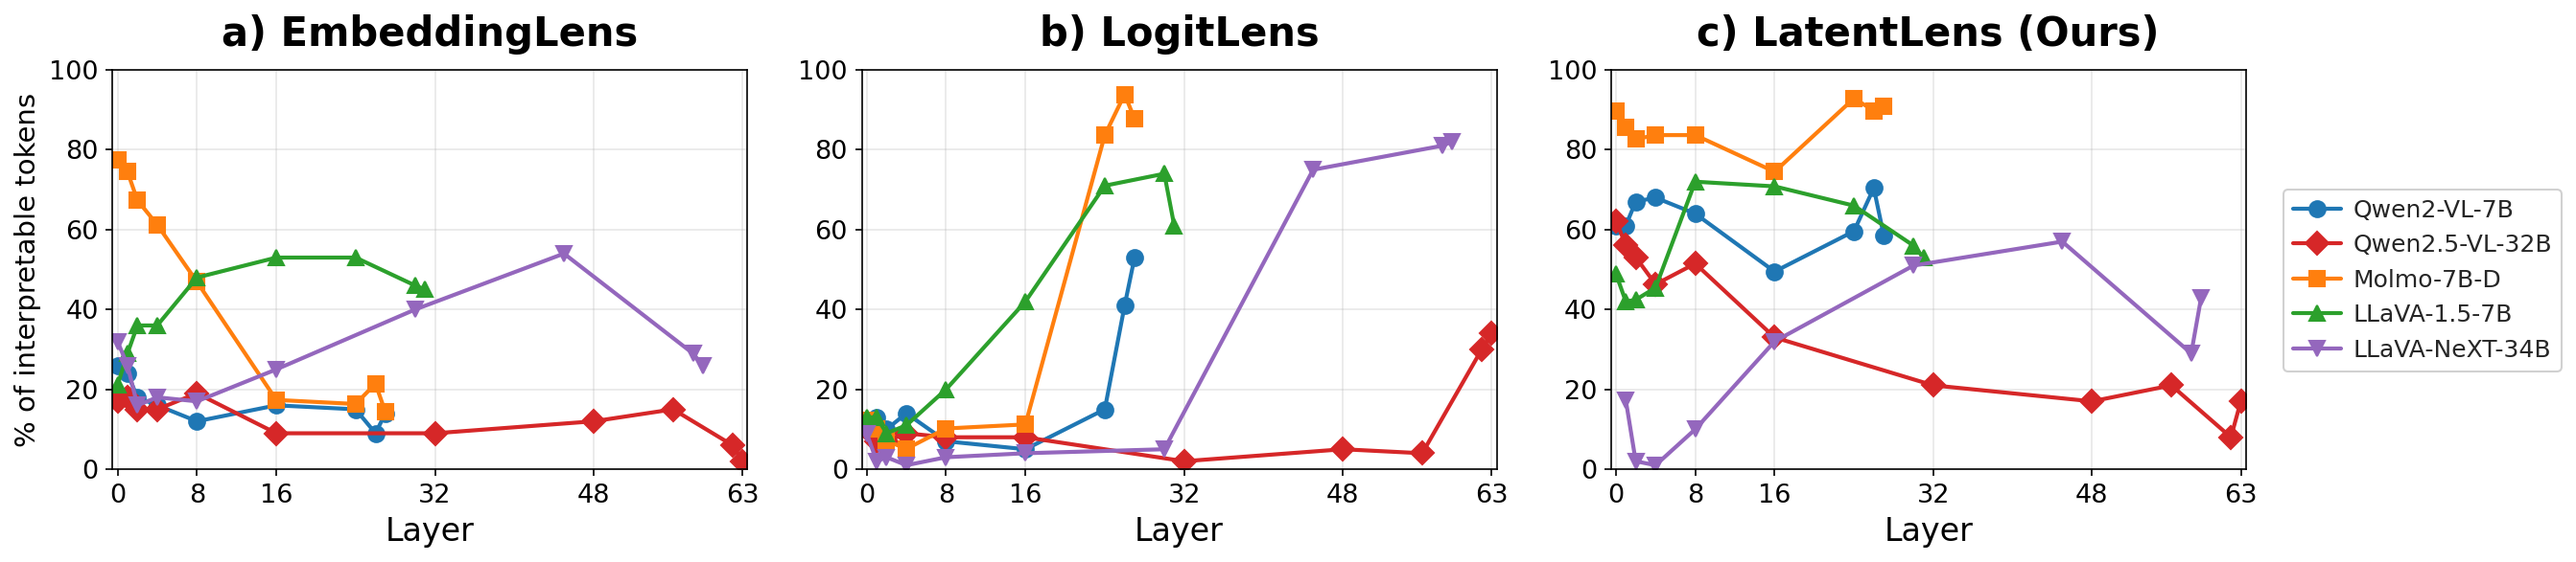
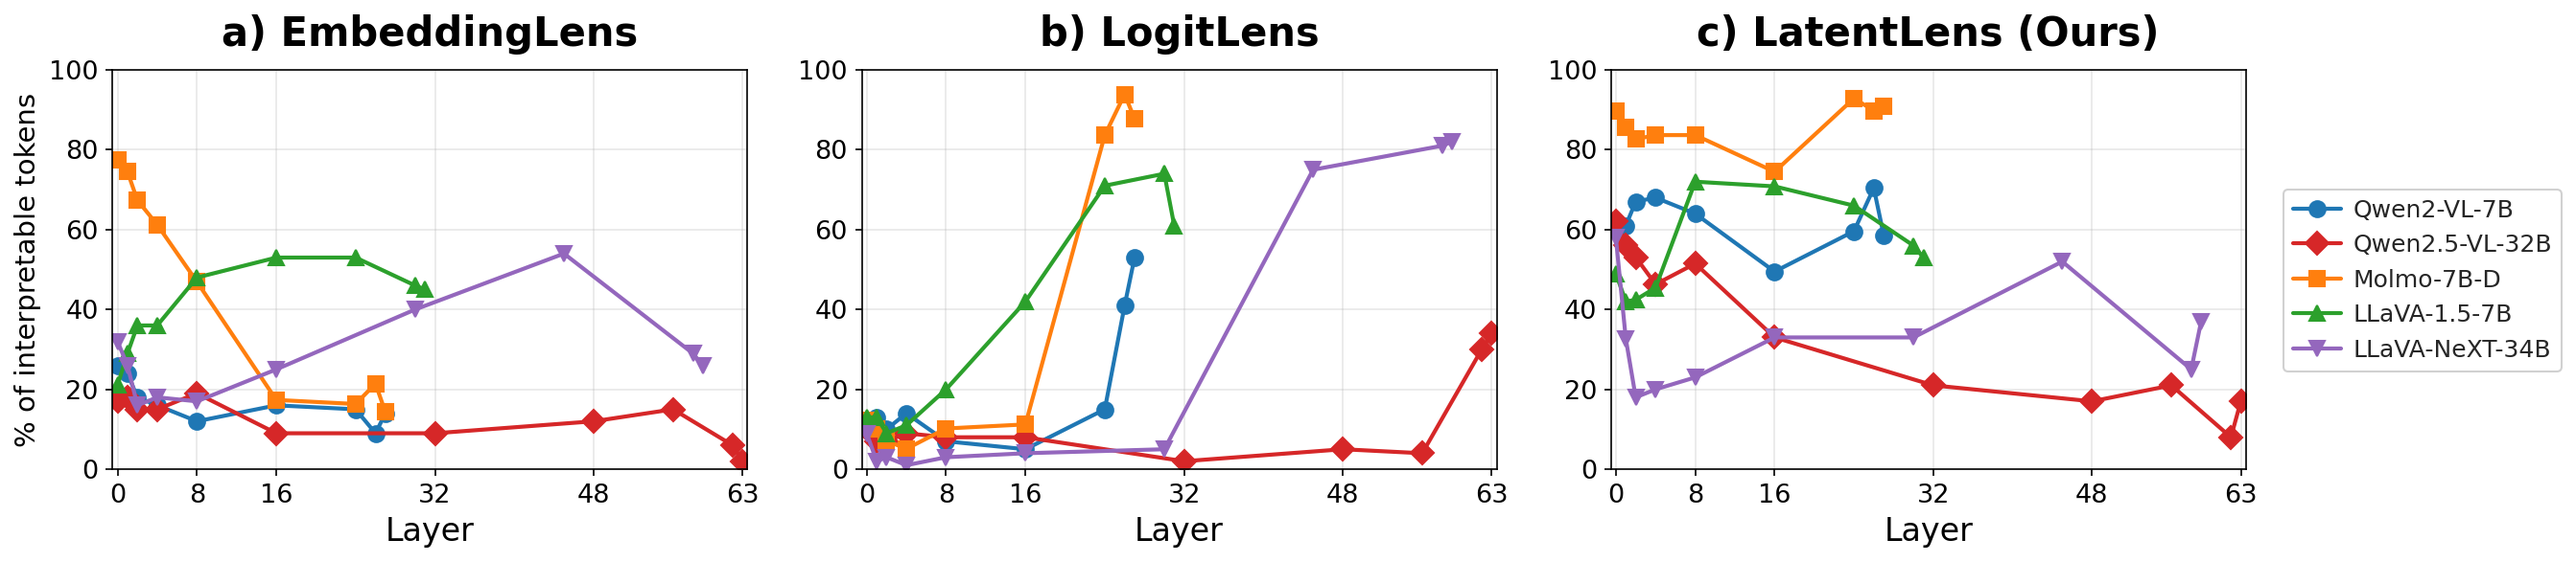
Update LLaVA-NeXT-34B with 8-ctx-layer LatentLens + prep Molmo-72B
LLaVA-NeXT v2 LatentLens: re-ran with ctx layers [1,2,4,8,16,30,45,59]
(added layers 2,4 which accounted for 40% of best matches in LLaVA-1.5-7B)

diff --git a/scripts/analysis/molmo_72b/create_contextual_embeddings.py b/scripts/analysis/molmo_72b/create_contextual_embeddings.py
@@ -33,7 +33,7 @@ from contextual_embeddings_common import add_common_args, run_extraction
 
 MODEL_NAME = "allenai/Molmo-72B-0924"
 # Molmo uses Qwen2 backbone: 28 layers
-DEFAULT_LAYERS = [1, 2, 4, 8, 16, 24, 26, 27]
+DEFAULT_LAYERS = [1, 2, 4, 8, 16, 40, 60, 72, 78, 79]  # 80-layer Qwen2-72B backbone
 
 
 def load_molmo_model():
